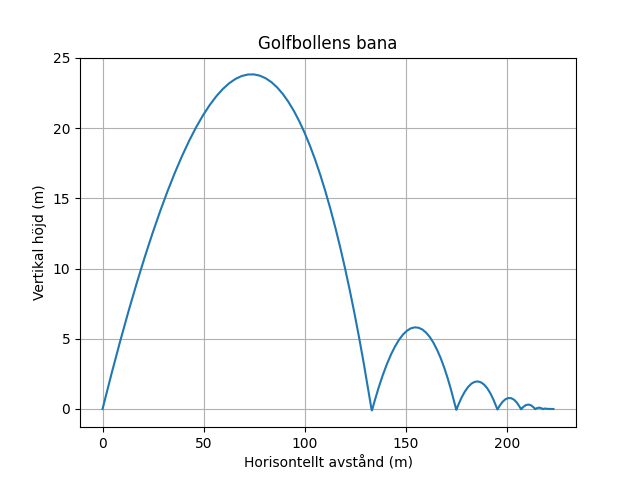
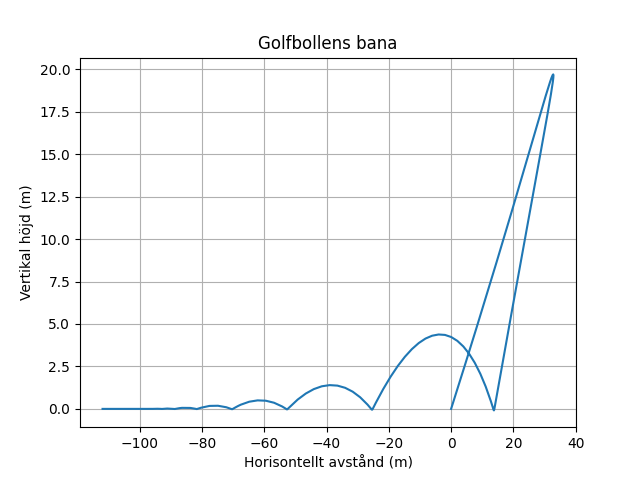
Efter examination

diff --git a/steg2.py b/steg2.py
@@ -17,7 +17,7 @@ g = -9.81
 timeinair = 0
 ballmass = 46e-3
 gforce = ballmass*g
-windspeed = 0
+windspeed = -50
 airdensity = 1.225
 dragkoefficient = 0.25
 area = 1430e-6

diff --git a/steg3.py b/steg3.py
@@ -5,7 +5,7 @@ import scipy.integrate as i
 
 g = -9.81
 ballmass = 46e-3
-windspeed = 0  
+windspeed = -100
 airdensity = 1.225
 dragkoefficient = 0.25
 area = 1430e-6
